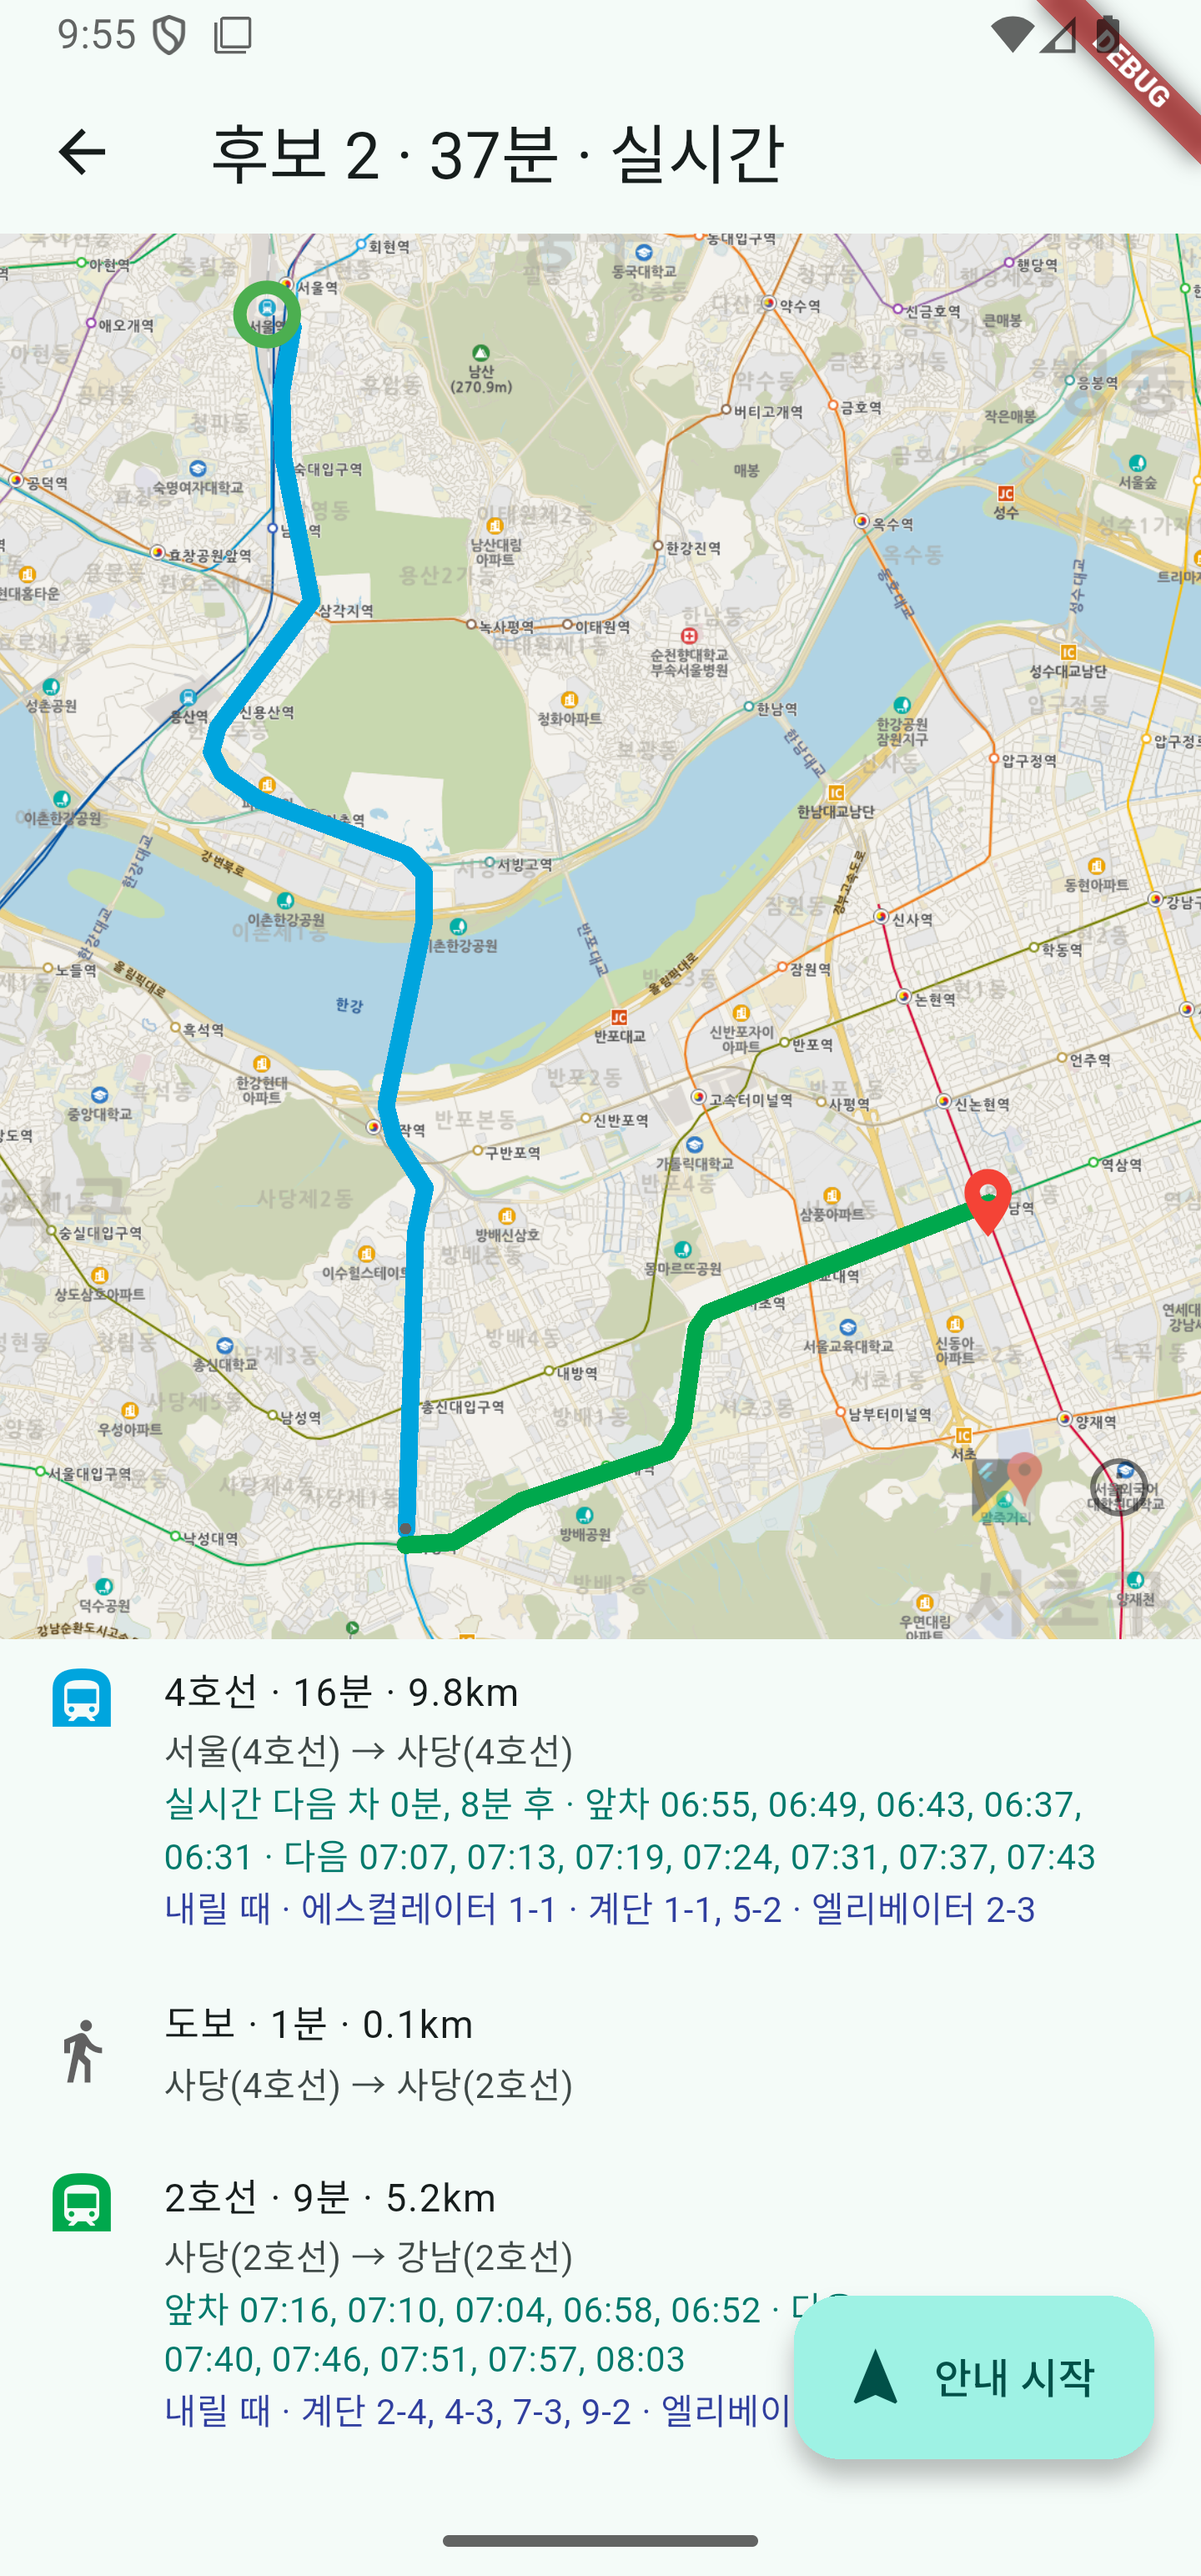
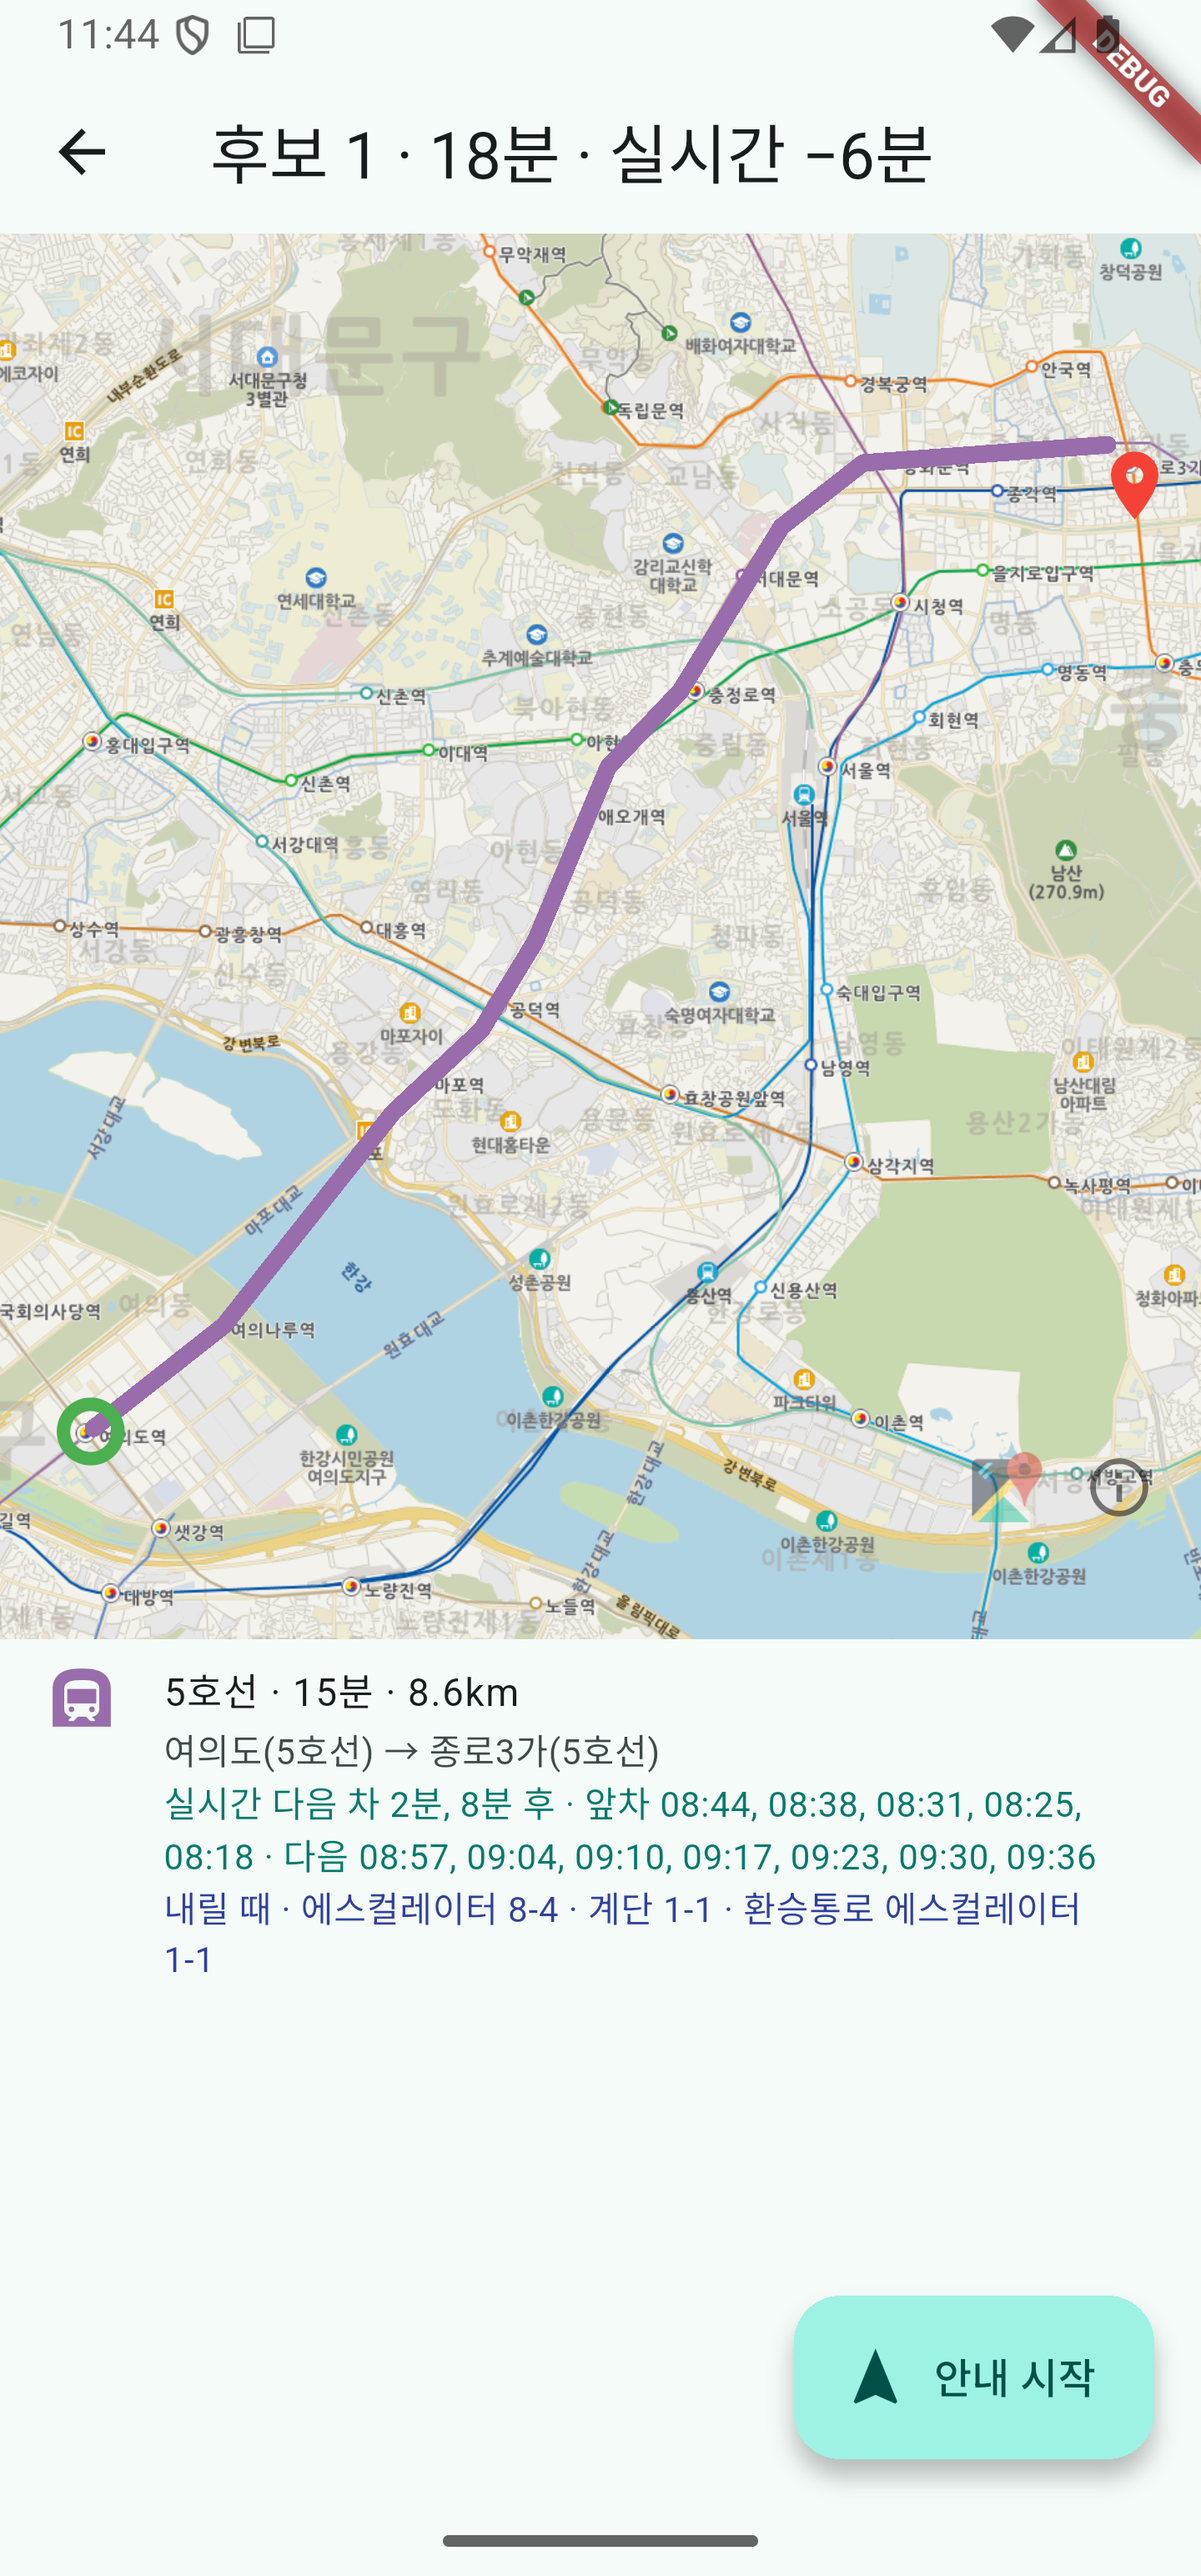
docs: 에스컬레이터 방향·환승통로 반영한 화면 (#76)

diff --git a/docs/fast-exit.md b/docs/fast-exit.md
@@ -56,9 +56,11 @@
 ## 검증 (2026-09-19)
 
 - `go vet`·`go test ./...`(DB 포함) 통과, `flutter analyze` 무경고·`flutter test` 109개 통과.
-- 실제 자료로 서버 기동: `fast exits loaded stations=276`. 서울역→강남역(4호선→2호선) 응답에서 사당(4호선) 하차는 남태령 방면 행
-  (에스컬레이터 1-1 · 계단 1-1, 5-2 · 엘리베이터 2-3) — 원자료의 "하행 남태령" 행과 일치. 신분당선 leg 는 비어 있다.
-- 에뮬레이터: 상세 화면 `docs/app/26-fast-exit-detail.png`, 안내 화면 `docs/app/27-fast-exit-guide.png`. 오류 로그 0건.
+- 실제 자료로 서버 기동: `fast exits loaded stations=276`. 서울역→강남역(4호선→2호선) 응답에서 사당(4호선) 하차는
+  `계단 1-1, 5-2` — 그 역의 에스컬레이터는 대합실에서 승강장으로 내려가는 것(B2→B3)이라 빠졌다. 신분당선 leg 는 비어 있다.
+- 여의도→종로3가(5호선) 응답은 `에스컬레이터 8-4 · 계단 1-1 · 환승통로 에스컬레이터 1-1`.
+- 에뮬레이터: 상세 화면 `docs/app/26-fast-exit-detail.png`, 안내 화면 `docs/app/27-fast-exit-guide.png`(둘 다 여의도→종로3가,
+  환승통로 표시 포함). 오류 로그 0건.
 
 ## 알려진 한계
 
